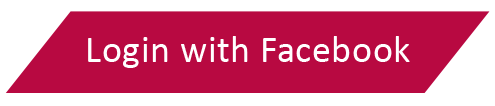
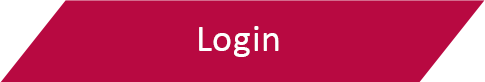
asdsadsad

diff --git a/www/js/index.js b/www/js/index.js
@@ -1,173 +1,13 @@
-     <!-- These are the notifications that are displayed to the user through pop-ups if the above JS files does not exist in the same directory
-            if ((typeof cordova == 'undefined') && (typeof Cordova == 'undefined')) alert('Cordova variable does not exist. Check that you have included cordova.js correctly');
-            if (typeof CDV == 'undefined') alert('CDV variable does not exist. Check that you have included cdv-plugin-fb-connect.js correctly');
-            if (typeof FB == 'undefined') alert('FB variable does not exist. Check that you have included the Facebook JS SDK file.');
-            
-            FB.Event.subscribe('auth.login', function(response) {
-                          //     alert('auth.login event');
-						  
-						  
-						                          localStorage.fbid = response.authResponse.userId;
-
-                               });
-            
-            FB.Event.subscribe('auth.logout', function(response) {
-                            //   alert('auth.logout event');
-							
-													                          localStorage.fbid = '';
-
-                               });
-            
-            FB.Event.subscribe('auth.sessionChange', function(response) {
-                            //   alert('auth.sessionChange event');
-                               });
-            
-            FB.Event.subscribe('auth.statusChange', function(response) {
-                            //   alert('auth.statusChange event');
-                               });
-            
-            /*function getSession() {
-alert("session: " + JSON.stringify(FB.getSession()));
-}
-*/
-            function getLoginStatus() {
-                FB.getLoginStatus(function(response) {
-                                  if (response.status == 'connected') {
-								  
-                                  //alert('logged in');
-                                  } else {
-                                 // alert('not logged in');
-                                  }
-                                  });
-            }
-            var friendIDs = [];
-var fdata;
-            function me() {
-                FB.api('/me/friends', { fields: 'id, name, picture' }, function(response) {
-                       if (response.error) {
-                      // alert(JSON.stringify(response.error));
-                       } else {
-                       var data = document.getElementById('data');
-fdata=response.data;
-console.log("fdata: "+fdata);
-                       response.data.forEach(function(item) {
-                                             var d = document.createElement('div');
-                                             d.innerHTML = "<img src="+item.picture+"/>"+item.name;
-                                             data.appendChild(d);
-                                             });
-                       }
-var friends = response.data;
-console.log(friends.length);
-for (var k = 0; k < friends.length && k < 200; k++) {
-var friend = friends[k];
-var index = 1;
-
-friendIDs[k] = friend.id;
-//friendsInfo[k] = friend;
-}
-console.log("friendId's: "+friendIDs);
-                       });
-            }
-            
-            function logout() {
-                FB.logout(function(response) {
-                        //  alert('logged out');
-						
-												                          localStorage.fbid = '';
-
-                          document.getElementById('data').innerHTML = JSON.stringify(response);
-                          });
-            }
-			
-			
-			
-			
-			
-			
-			
-			
-			
-			
-			
-			
-			if(localStorage.fb_id != null)
-
-
+$(function()
 {
+$(document).on('backbutton',
+     function(e){
+
+         e.preventDefault();
+
+         // do whatever you like here.
+
+});
 
 
-						  document.location.href = 'f_style_tribe.html';
-
-}
-	
-            
-            function login() {
-                FB.login(
-                     function(response) {
-                       if (response.session) {
-                        fbId = response.authResponse.userId;
-						
-						localStorage.fbid = response.authResponse.userId;
-                     alert("user id is "+fbId);
-						  document.location.href = 'f_style_tribe.html';
-
-                       } 
-                       else {
-						 // document.location.href = 'f_style_tribe.html';
-                       }
-                       document.getElementById('data').innerHTML = JSON.stringify(response);
-                     }, { scope: "email" }
-                         );
-            }
-
-
-function facebookWallPost() {
-console.log('Debug 1');
-var params = {
-method: 'feed',
-name: 'Facebook Dialogs',
-link: 'https://developers.facebook.com/docs/reference/dialogs/',
-picture: 'http://fbrell.com/f8.jpg',
-caption: 'Reference Documentation',
-description: 'Dialogs provide a simple, consistent interface for applications to interface with users.'
-};
-console.log(params);
-FB.ui(params, function(obj) { console.log(obj);});
-}
-            
-function publishStoryFriend() {
-randNum = Math.floor ( Math.random() * friendIDs.length );
-
-var friendID = friendIDs[randNum];
-if (friendID == undefined){
-alert('please click the me button to get a list of friends first');
-}else{
-console.log("friend id: " + friendID );
-console.log('Opening a dialog for friendID: ', friendID);
-var params = {
-method: 'feed',
-to: friendID.toString(),
-name: 'Facebook Dialogs',
-link: 'https://developers.facebook.com/docs/reference/dialogs/',
-picture: 'http://fbrell.com/f8.jpg',
-caption: 'Reference Documentation',
-description: 'Dialogs provide a simple, consistent interface for applications to interface with users.'
-};
-FB.ui(params, function(obj) { console.log(obj);});
-}
-}
-            
-            document.addEventListener('deviceready', function() {
-                                      try {
-                                    //  alert('Device is ready! Make sure you set your app_id below this alert.');
-                                      FB.init({ appId: '408729362586583', nativeInterface: CDV.FB, useCachedDialogs: false });
-                                      //document.getElementById('data').innerHTML = "";
-                                      } catch (e) {  
-                                     // alert(e);
-                                      }
-                                      }, false); 
-									  
-									  
-									  
-									  
-									
+});

diff --git a/www/register.html b/www/register.html
@@ -11,41 +11,25 @@
     </head>
 <body>
 <div class="container text-center ">
-<div class="row"><div class="col-xs-12"><img src ="img/Arena_Logo.png" class="img-responsive center logo_start" /></div></div>
 
 <div class="row "><div class="col-xs-12"><h1>&nbsp </h1></div>
 
 
 
-<div id="log" class="row text-center login f1">
-<p class="col-lg-8 col-xs-12  col-lg-offset-2  col-sm-12 "><input type="text" id="username" placeholder="username"  required class="form-control" /></p>
-<p class="col-lg-8 col-xs-12  col-lg-offset-2  col-sm-12 "><input type="password" id="password" placeholder="password" required  class="form-control" /></p>
 
 
-</div>
-<div class="row "><div class="col-xs-12"><a id="log-in" href="login.html" ><img  src ="img/login.png" class="hov img-responsive login_start center" /></a></div>
+<div id="reg1" class="row text-center login ">
 
+<div class="row col-lg-8 col-xs-12  col-lg-offset-2  col-sm-12 " style="margin-bottom: 10px"><input type="email" id="email" placeholder="email"  required class="form-control" /></div>
 
-
-
-</div>
-
-
-
-<div  class="row "><div class="col-xs-12"><h1 class="or">or</h1></div></div>
-
-<div id="reg1" class="row text-center login f2">
-
-<p class="col-lg-8 col-xs-12  col-lg-offset-2  col-sm-12 "><input type="email" id="email" placeholder="email"  required class="form-control" /></p>
-
-<p class="col-lg-8 col-xs-12  col-lg-offset-2  col-sm-12 "><input type="text" id="rusername" placeholder="username"  required class="form-control" /></p>
-<p class="col-lg-8 col-xs-12  col-lg-offset-2  col-sm-12 "><input type="password" id="rpassword" placeholder="password" required  class="form-control" /></p>
+<div class="row col-lg-8 col-xs-12  col-lg-offset-2  col-sm-12 " style="margin-bottom: 10px"><input type="text" id="rusername" placeholder="username"  required class="form-control" /></div>
+<div class="row col-lg-8 col-xs-12  col-lg-offset-2  col-sm-12 " style="margin-bottom: 10px"><input type="password" id="rpassword" placeholder="password" required  class="form-control" /></div>
 
 
 </div>
 
 
-<div class="row "><div class="col-xs-12"><a id="reg" href="register.html" ><img  src ="img/reg.png" class="hov img-responsive login_start center" /></a></div>
+<div class="row "><div class="col-xs-12"><a id="reg" href="#" ><img  src ="img/reg.png" class="hov img-responsive login_start center" /></a></div>
 
 </div>
 
@@ -75,7 +59,7 @@
 
     <script>
 
-/*
+
 	$("#log-in").click(function()
 	{
 		 $(".f1").slideDown();
@@ -143,7 +127,7 @@
       alert("User already exists!");
 					  
    }
-  if(e.num == 0)
+ else
   {
    localStorage.user_id = e.uid;
       alert("Registration Successful");

diff --git a/www/login.html b/www/login.html
@@ -6,24 +6,23 @@
 	<meta name="viewport" content="width=device-width, initial-scale=1">
 	<title>Multi-page template</title>
        <link rel="stylesheet" type="text/css" href="css/bootstrap.min.css" />
-       <link rel="stylesheet" type="text/css" href="http://matchdrobe.com/malupit.css" />
+       <link rel="stylesheet" type="text/css" href="css/malupit.css" />
 
     </head>
 <body>
 <div class="container text-center ">
-<div class="row"><div class="col-xs-12"><img src ="img/Arena_Logo.png" class="img-responsive center logo_start" /></div></div>
 
 <div class="row "><div class="col-xs-12"><h1>&nbsp </h1></div>
 
 
 
-<div id="log" class="row text-center login f1">
-<p class="col-lg-8 col-xs-12  col-lg-offset-2  col-sm-12 "><input type="text" id="username" placeholder="username"  required class="form-control" /></p>
-<p class="col-lg-8 col-xs-12  col-lg-offset-2  col-sm-12 "><input type="password" id="password" placeholder="password" required  class="form-control" /></p>
+<div id="log" class="row text-center login ">
+<div class="row col-lg-8 col-xs-12  col-lg-offset-2  col-sm-12 " style="margin-bottom: 10px"><input type="text" id="username" placeholder="username"  required class="form-control" /></div>
+<div  class="row col-lg-8 col-xs-12  col-lg-offset-2  col-sm-12 " style="margin-bottom: 10px"><input type="password" id="password" placeholder="password" required  class="form-control" /></div>
 
 
 </div>
-<div class="row "><div class="col-xs-12"><a id="log-in" href="login.html" ><img  src ="img/login.png" class="hov img-responsive login_start center" /></a></div>
+<div class="row "><div class="col-xs-12"><a id="log-in" href="#f1" ><img  src ="img/login.png" class="hov img-responsive login_start center" /></a></div>
 
 
 
@@ -45,7 +44,7 @@
 </div>
 
 
-<div class="row "><div class="col-xs-12"><a id="reg" href="register.html" ><img  src ="img/reg.png" class="hov img-responsive login_start center" /></a></div>
+<div class="row "><div class="col-xs-12"><a id="reg" href="#" ><img  src ="img/reg.png" class="hov img-responsive login_start center" /></a></div>
 
 </div>
 
@@ -75,7 +74,7 @@
 
     <script>
 
-/*
+
 	$("#log-in").click(function()
 	{
 		 $(".f1").slideDown();

diff --git a/www/arena.html b/www/arena.html
@@ -24,7 +24,7 @@
         <meta name="viewport" content="user-scalable=no, initial-scale=1, maximum-scale=1, minimum-scale=1, width=device-width, height=device-height, target-densitydpi=device-dpi" />
         <link rel="stylesheet" type="text/css" href="css/index.css" />
         <link rel="stylesheet" type="text/css" href="css/ron.css" />
-		              <link rel="stylesheet" type="text/css" href="css/malupit.css" />
+		              <link rel="stylesheet" type="text/css" href="http://matchdrobe.com/malupit.css" />
 
 			  <link rel="stylesheet" type="text/css" href="css/bootstrap.min.css" />
      <!--   <link rel="stylesheet" type="text/css" href="css/mobile.css" /> -->

diff --git a/www/f_style_tribe.html b/www/f_style_tribe.html
@@ -22,7 +22,7 @@
         <meta charset="utf-8" />
         <meta name="format-detection" content="telephone=no" />
         <meta name="viewport" content="user-scalable=no, initial-scale=1, maximum-scale=1, minimum-scale=1, width=device-width, height=device-height, target-densitydpi=device-dpi" />
-        <link rel="stylesheet" type="text/css" href="css/malupit.css" />
+        <link rel="stylesheet" type="text/css" href="http://matchdrobe.com/malupit.css" />
 		        <link rel="stylesheet" type="text/css" href="css/bootstrap.min.css" />
      <!--   <link rel="stylesheet" type="text/css" href="css/mobile.css" /> -->
 

diff --git a/www/hof.html b/www/hof.html
@@ -22,7 +22,7 @@
         <meta charset="utf-8" />
         <meta name="format-detection" content="telephone=no" />
         <meta name="viewport" content="user-scalable=no, initial-scale=1, maximum-scale=1, minimum-scale=1, width=device-width, height=device-height, target-densitydpi=device-dpi" />
-        <link rel="stylesheet" type="text/css" href="css/malupit.css" />
+        <link rel="stylesheet" type="text/css" href="http://matchdrobe.com/malupit.css" />
 		        <link rel="stylesheet" type="text/css" href="css/bootstrap.min.css" />
      <!--   <link rel="stylesheet" type="text/css" href="css/mobile.css" /> -->
 

diff --git a/www/looks.html b/www/looks.html
@@ -22,7 +22,7 @@
         <meta charset="utf-8" />
         <meta name="format-detection" content="telephone=no" />
         <meta name="viewport" content="user-scalable=no, initial-scale=1, maximum-scale=1, minimum-scale=1, width=device-width, height=device-height, target-densitydpi=device-dpi" />
-        <link rel="stylesheet" type="text/css" href="css/malupit.css" />
+        <link rel="stylesheet" type="text/css" href="http://matchdrobe.com/malupit.css" />
 		        <link rel="stylesheet" type="text/css" href="css/bootstrap.min.css" />
      <!--   <link rel="stylesheet" type="text/css" href="css/mobile.css" /> -->
 

diff --git a/www/settings.html b/www/settings.html
@@ -22,7 +22,7 @@
         <meta charset="utf-8" />
         <meta name="format-detection" content="telephone=no" />
         <meta name="viewport" content="user-scalable=no, initial-scale=1, maximum-scale=1, minimum-scale=1, width=device-width, height=device-height, target-densitydpi=device-dpi" />
-        <link rel="stylesheet" type="text/css" href="css/malupit.css" />
+        <link rel="stylesheet" type="text/css" href="http://matchdrobe.com/malupit.css" />
 		        <link rel="stylesheet" type="text/css" href="css/bootstrap.min.css" />
      <!--   <link rel="stylesheet" type="text/css" href="css/mobile.css" /> -->
 
